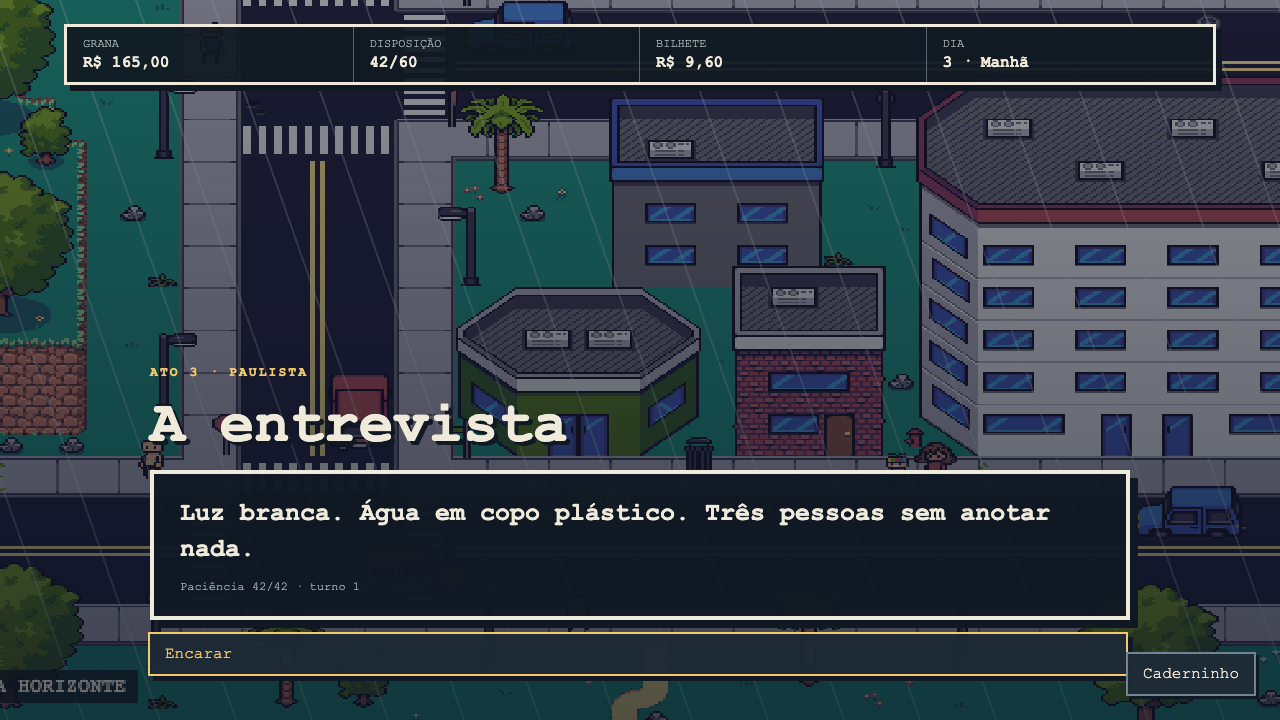
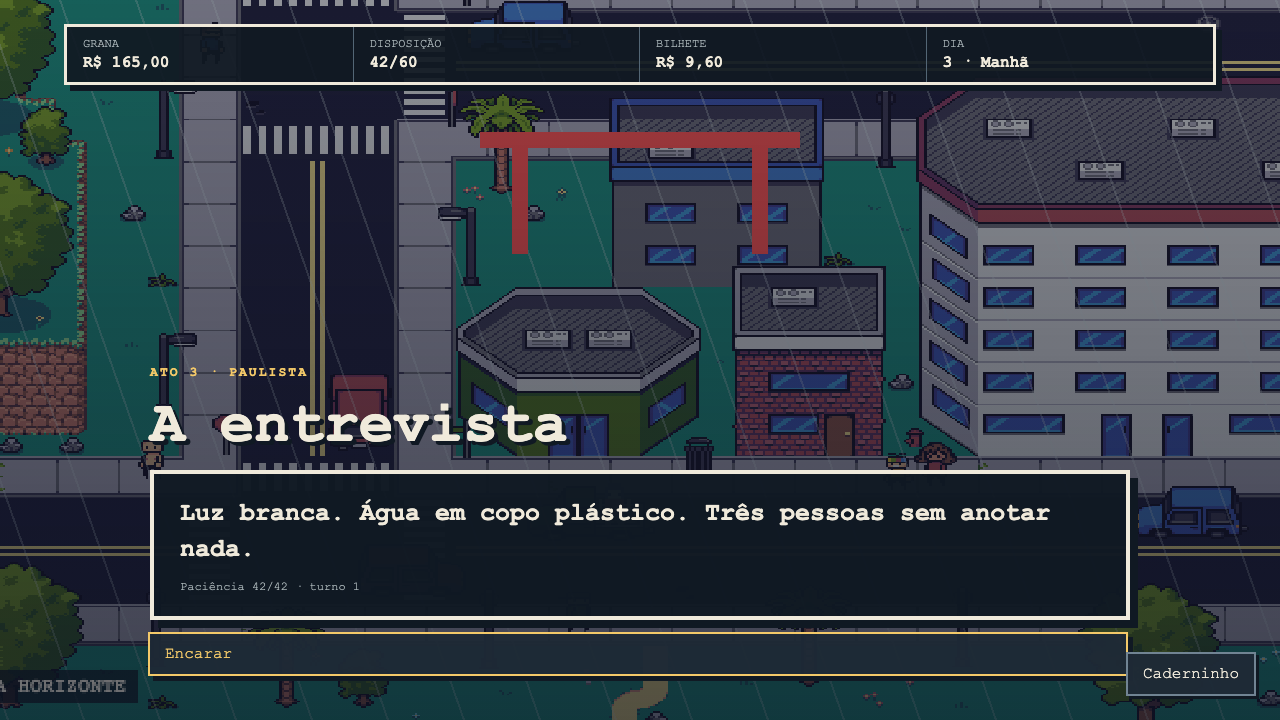
feat: add district landmarks and aligned collisions

Changed region(s): [[0.375, 0.1833, 0.625, 0.3667]]

diff --git a/src/engine/backdrop.ts b/src/engine/backdrop.ts
@@ -87,9 +87,9 @@ export class WorldScene extends Phaser.Scene {
     this.exits = this.physics.add.staticGroup()
     const palette = districtPalette(bridge.presentation.district)
     this.cameras.main.setBackgroundColor(palette.void)
-    drawMap(this, palette, bridge.presentation.placeId)
+    drawMap(this, palette, bridge.presentation.placeId, bridge.presentation.district)
     this.createBorders(palette)
-    this.createProps(palette, bridge.presentation.placeId)
+    this.createCollisionMap()
     this.createExits(bridge.presentation.exits)
     this.createActors(bridge.presentation.actors)
     this.player = this.physics.add
@@ -105,58 +105,41 @@ export class WorldScene extends Phaser.Scene {
   }
 
   private createBorders(palette: Palette): void {
-    const exits = bridge.presentation?.exits.length ?? 0
-    const gapCenters = Array.from({ length: exits }, (_, index) =>
-      Math.round(((index + 1) * MAP_WIDTH) / (exits + 1))
-    )
     for (let x = 0; x < MAP_WIDTH; x += 1) {
-      if (!gapCenters.some((center) => Math.abs(center - x) <= 1)) this.block(x, 0, palette.wall)
+      this.block(x, 0, palette.wall)
       this.block(x, MAP_HEIGHT - 1, palette.wall)
     }
     for (let y = 1; y < MAP_HEIGHT - 1; y += 1) {
-      this.block(0, y, palette.wall)
-      this.block(MAP_WIDTH - 1, y, palette.wall)
+      if (y < 11 || y > 13) {
+        this.block(0, y, palette.wall)
+        this.block(MAP_WIDTH - 1, y, palette.wall)
+      }
     }
   }
-  private createProps(palette: Palette, seedText: string): void {
-    let seed = [...seedText].reduce((sum, char) => sum + char.charCodeAt(0), 0)
-    const buildings = [
-      { x: 2, y: 2, width: 6, height: 3 },
-      { x: 17, y: 2, width: 5, height: 3 },
-      { x: 2, y: 10, width: 5, height: 3 },
-      { x: 18, y: 10, width: 4, height: 3 },
-    ]
-    for (const building of buildings)
-      for (let y = 0; y < building.height; y += 1)
-        for (let x = 0; x < building.width; x += 1) {
-          const edge = y === 0 || x === 0 || x === building.width - 1
-          this.block(building.x + x, building.y + y, edge ? palette.wall : palette.prop)
-        }
-    for (let index = 0; index < 8; index += 1) {
-      seed = (seed * 1664525 + 1013904223) >>> 0
-      const x = 2 + (seed % (MAP_WIDTH - 4))
-      const y = 6 + ((seed >>> 8) % 4)
-      if (x > 9 && x < 15) continue
-      this.block(x, y, index % 3 === 0 ? palette.accent : palette.prop)
-    }
+  private createCollisionMap(): void {
+    this.obstacleRect(290, 88, 215, 278)
+    this.obstacleRect(518, 88, 250, 278)
+    this.obstacleRect(0, 0, 135, 362)
   }
   private createExits(exits: readonly WorldExit[]): void {
     exits.forEach((exit, index) => {
-      const x = Math.round(((index + 1) * MAP_WIDTH * TILE) / (exits.length + 1))
-      const zone = this.add.zone(x, TILE * 0.55, TILE * 2.4, TILE * 1.2)
+      const onLeft = index % 2 === 0
+      const x = onLeft ? TILE * 0.45 : MAP_WIDTH * TILE - TILE * 0.45
+      const y = (11.5 + Math.floor(index / 2)) * TILE
+      const zone = this.add.zone(x, y, TILE * 0.9, TILE * 1.4)
       this.physics.add.existing(zone, true)
       zone.setData('actionId', exit.actionId)
       zone.setData('label', exit.label)
       this.exits?.add(zone)
       const sign = this.add
-        .text(x, TILE * 1.25, `▲ ${exit.label}`, {
+        .text(x + (onLeft ? 12 : -12), y - 24, `${onLeft ? '◀' : '▶'} ${exit.label}`, {
           fontFamily: 'monospace',
           fontSize: '10px',
           color: '#f3c969',
           backgroundColor: '#101923dd',
           padding: { x: 5, y: 3 },
         })
-        .setOrigin(0.5)
+        .setOrigin(onLeft ? 0 : 1, 0.5)
         .setDepth(20)
       this.labels.push(sign)
     })
@@ -164,7 +147,7 @@ export class WorldScene extends Phaser.Scene {
   private createActors(actors: readonly WorldActor[]): void {
     actors.forEach((actor, index) => {
       const x = (index % 2 === 0 ? 18 : 6) * TILE
-      const y = 10.5 * TILE
+      const y = 12.1 * TILE
       const frame = actor.kind === 'npc' ? npcFrame(actor.id) : 'banca_jornal'
       const sprite = this.physics.add.staticSprite(x, y, 'garoa', frame).setScale(1.5).setDepth(8)
       sprite.setData('actionId', actor.id)
@@ -190,6 +173,13 @@ export class WorldScene extends Phaser.Scene {
       .setStrokeStyle(2, 0x101923)
       .setVisible(false)
       .setDepth(4)
+    this.physics.add.existing(rectangle, true)
+    this.obstacles?.add(rectangle)
+  }
+  private obstacleRect(x: number, y: number, width: number, height: number): void {
+    const rectangle = this.add
+      .rectangle(x + width / 2, y + height / 2, width, height)
+      .setVisible(false)
     this.physics.add.existing(rectangle, true)
     this.obstacles?.add(rectangle)
   }
@@ -318,7 +308,7 @@ function districtPalette(district: string): Palette {
   }
   return options[district] ?? options.tiete!
 }
-function drawMap(scene: Phaser.Scene, palette: Palette, placeId: string): void {
+function drawMap(scene: Phaser.Scene, palette: Palette, placeId: string, district: string): void {
   scene.add
     .image(MAP_WIDTH * TILE * 0.5, MAP_HEIGHT * TILE * 0.5, 'fisherg-city')
     .setDisplaySize(MAP_WIDTH * TILE, MAP_HEIGHT * TILE)
@@ -333,6 +323,7 @@ function drawMap(scene: Phaser.Scene, palette: Palette, placeId: string): void {
       0.3
     )
     .setDepth(1)
+  drawLandmark(scene, district)
   const rain = scene.add.graphics().setDepth(2)
   rain.lineStyle(1, 0xa7b2b5, 0.28)
   for (let x = -MAP_HEIGHT * TILE; x < MAP_WIDTH * TILE; x += 38)
@@ -346,6 +337,42 @@ function drawMap(scene: Phaser.Scene, palette: Palette, placeId: string): void {
       padding: { x: 5, y: 3 },
     })
     .setDepth(3)
+}
+
+function drawLandmark(scene: Phaser.Scene, district: string): void {
+  const labels: Record<string, readonly [string, number]> = {
+    tiete: ['RODOVIÁRIA · METRÔ', 0xf3c969],
+    centro: ['CENTRO · VALE DO ANHANGABAÚ', 0xd97963],
+    bixiga: ['BIXIGA · CANTINAS', 0xdb9772],
+    liberdade: ['LIBERDADE · 東洋街', 0xe95d5d],
+    paulista: ['AV. PAULISTA · MASP', 0xf2e3ad],
+    zona_leste: ['ZONA LESTE · RADIAL', 0x91b0a9],
+    minhocao: ['MINHOCÃO · ELEVADO', 0xffe3ad],
+  }
+  const [label, color] = labels[district] ?? labels.tiete!
+  scene.add
+    .rectangle(MAP_WIDTH * TILE * 0.5, 54, 250, 28, 0x101923, 0.9)
+    .setStrokeStyle(2, color)
+    .setDepth(3)
+  scene.add
+    .text(MAP_WIDTH * TILE * 0.5, 54, label, {
+      fontFamily: 'monospace',
+      fontSize: '11px',
+      color: `#${color.toString(16).padStart(6, '0')}`,
+    })
+    .setOrigin(0.5)
+    .setDepth(4)
+  if (district === 'liberdade') {
+    for (const x of [180, 240, 300, 468, 528, 588])
+      scene.add.circle(x, 94, 7, 0xd84b4b).setStrokeStyle(2, 0xf3c969).setDepth(3)
+  }
+  if (district === 'paulista') {
+    scene.add.rectangle(384, 190, 160, 8, 0xc94343).setDepth(3)
+    scene.add.rectangle(324, 218, 8, 58, 0xc94343).setDepth(3)
+    scene.add.rectangle(444, 218, 8, 58, 0xc94343).setDepth(3)
+  }
+  if (district === 'zona_leste') scene.add.rectangle(384, 420, 768, 120, 0x3e6970, 0.42).setDepth(2)
+  if (district === 'minhocao') scene.add.rectangle(384, 116, 768, 34, 0x485270, 0.88).setDepth(3)
 }
 function npcFrame(actionId: string): string {
   const id = actionId.replace('talk:', '')
